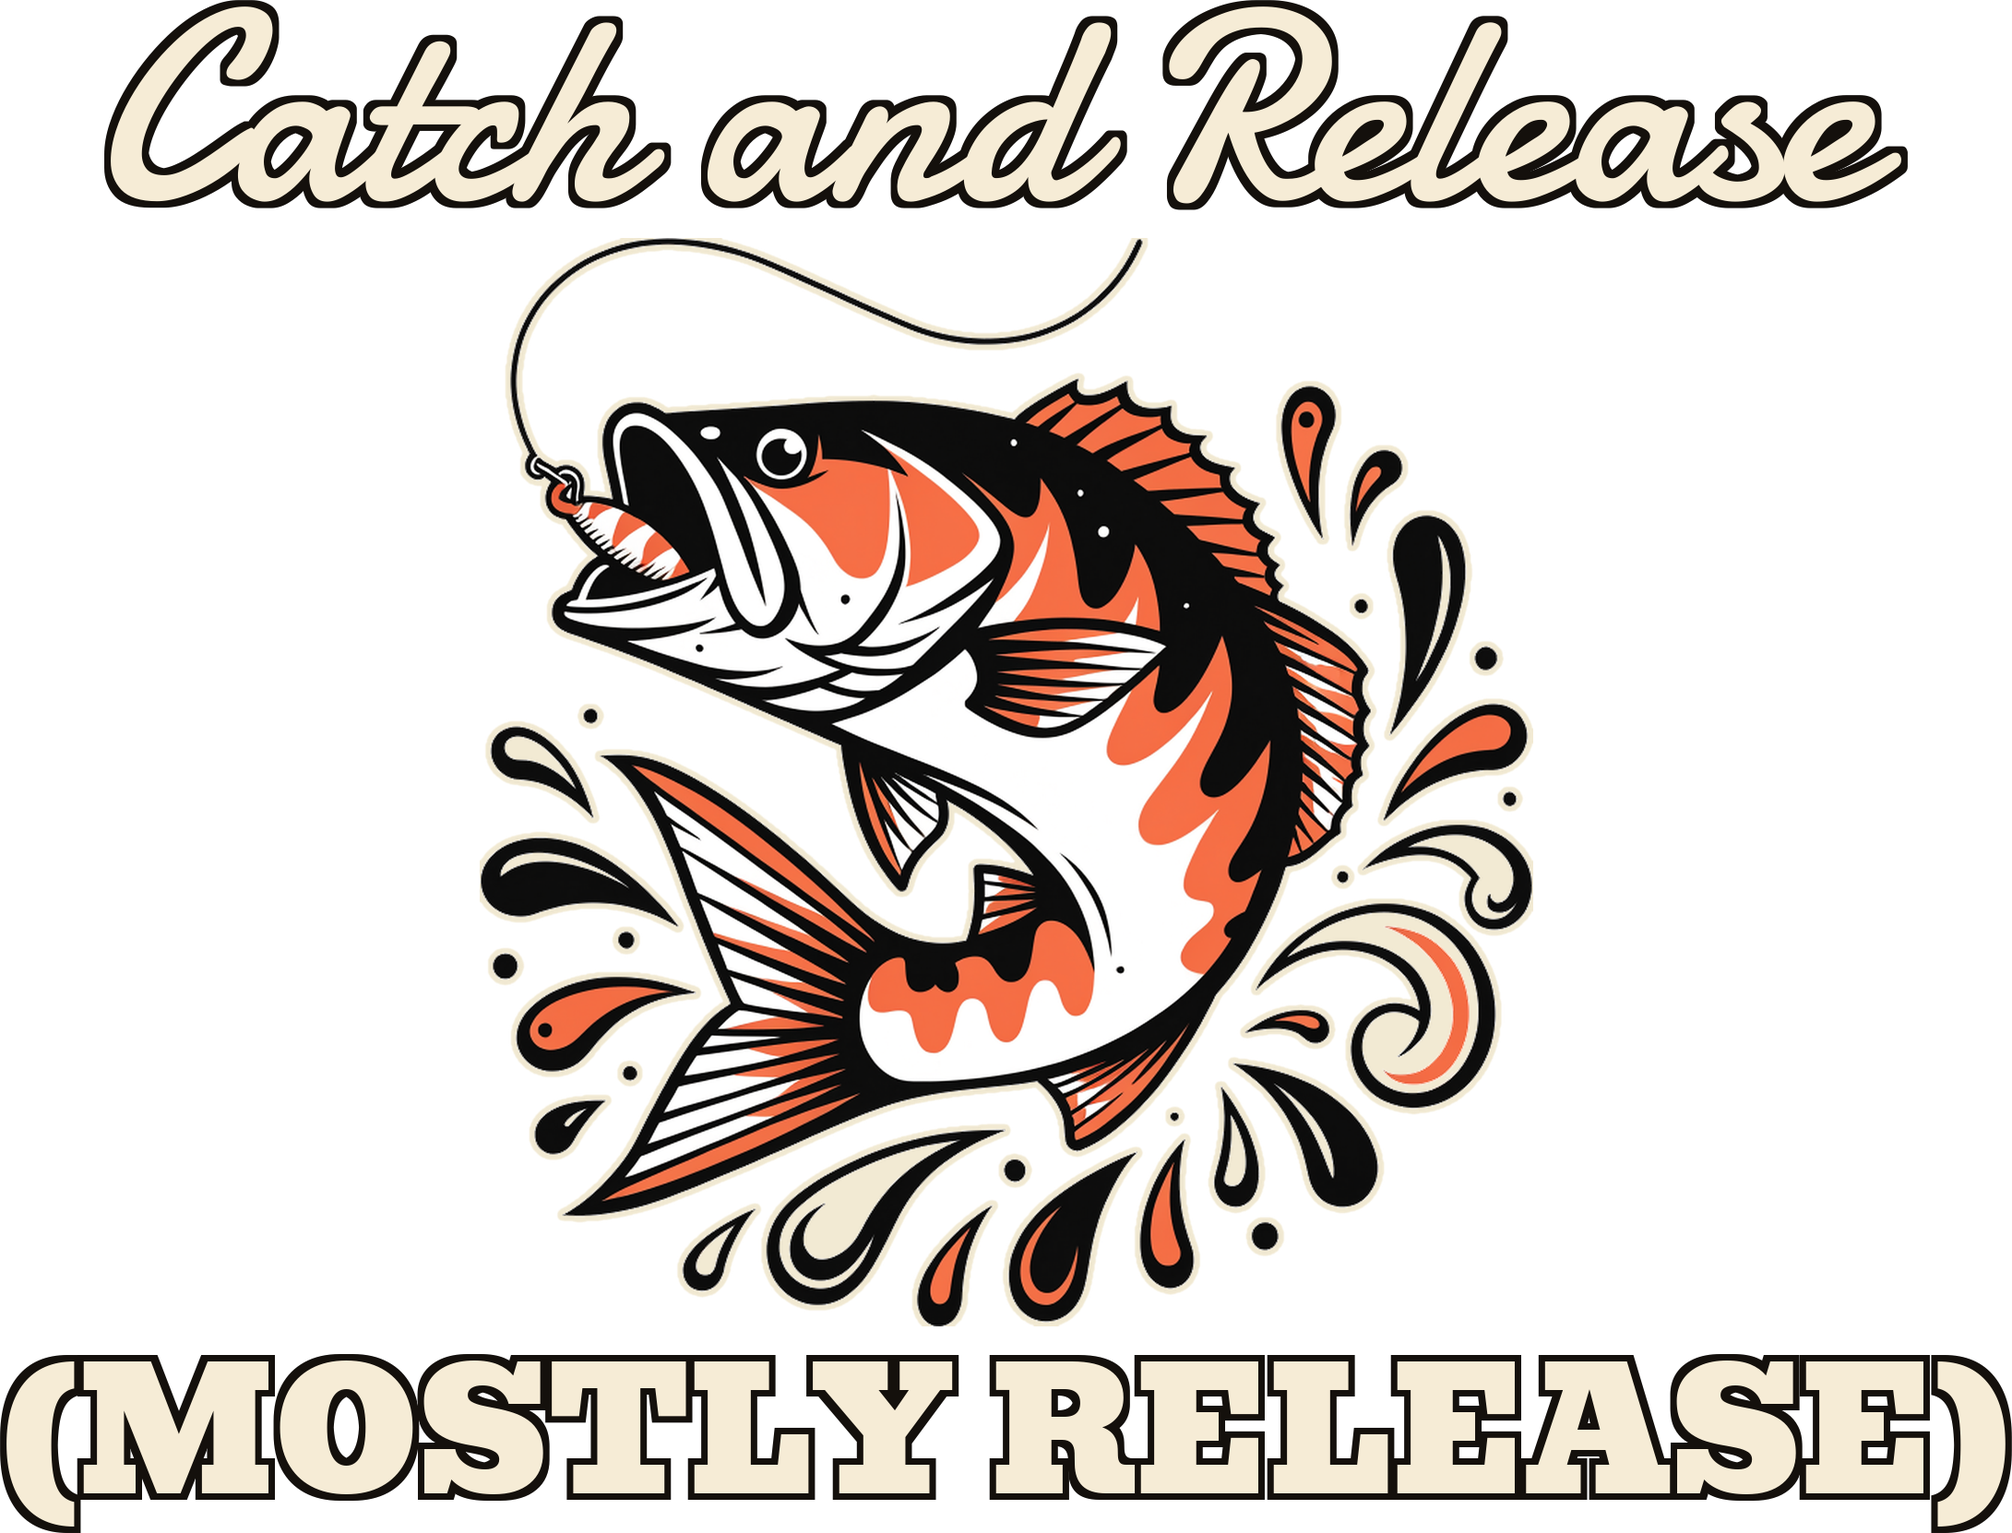
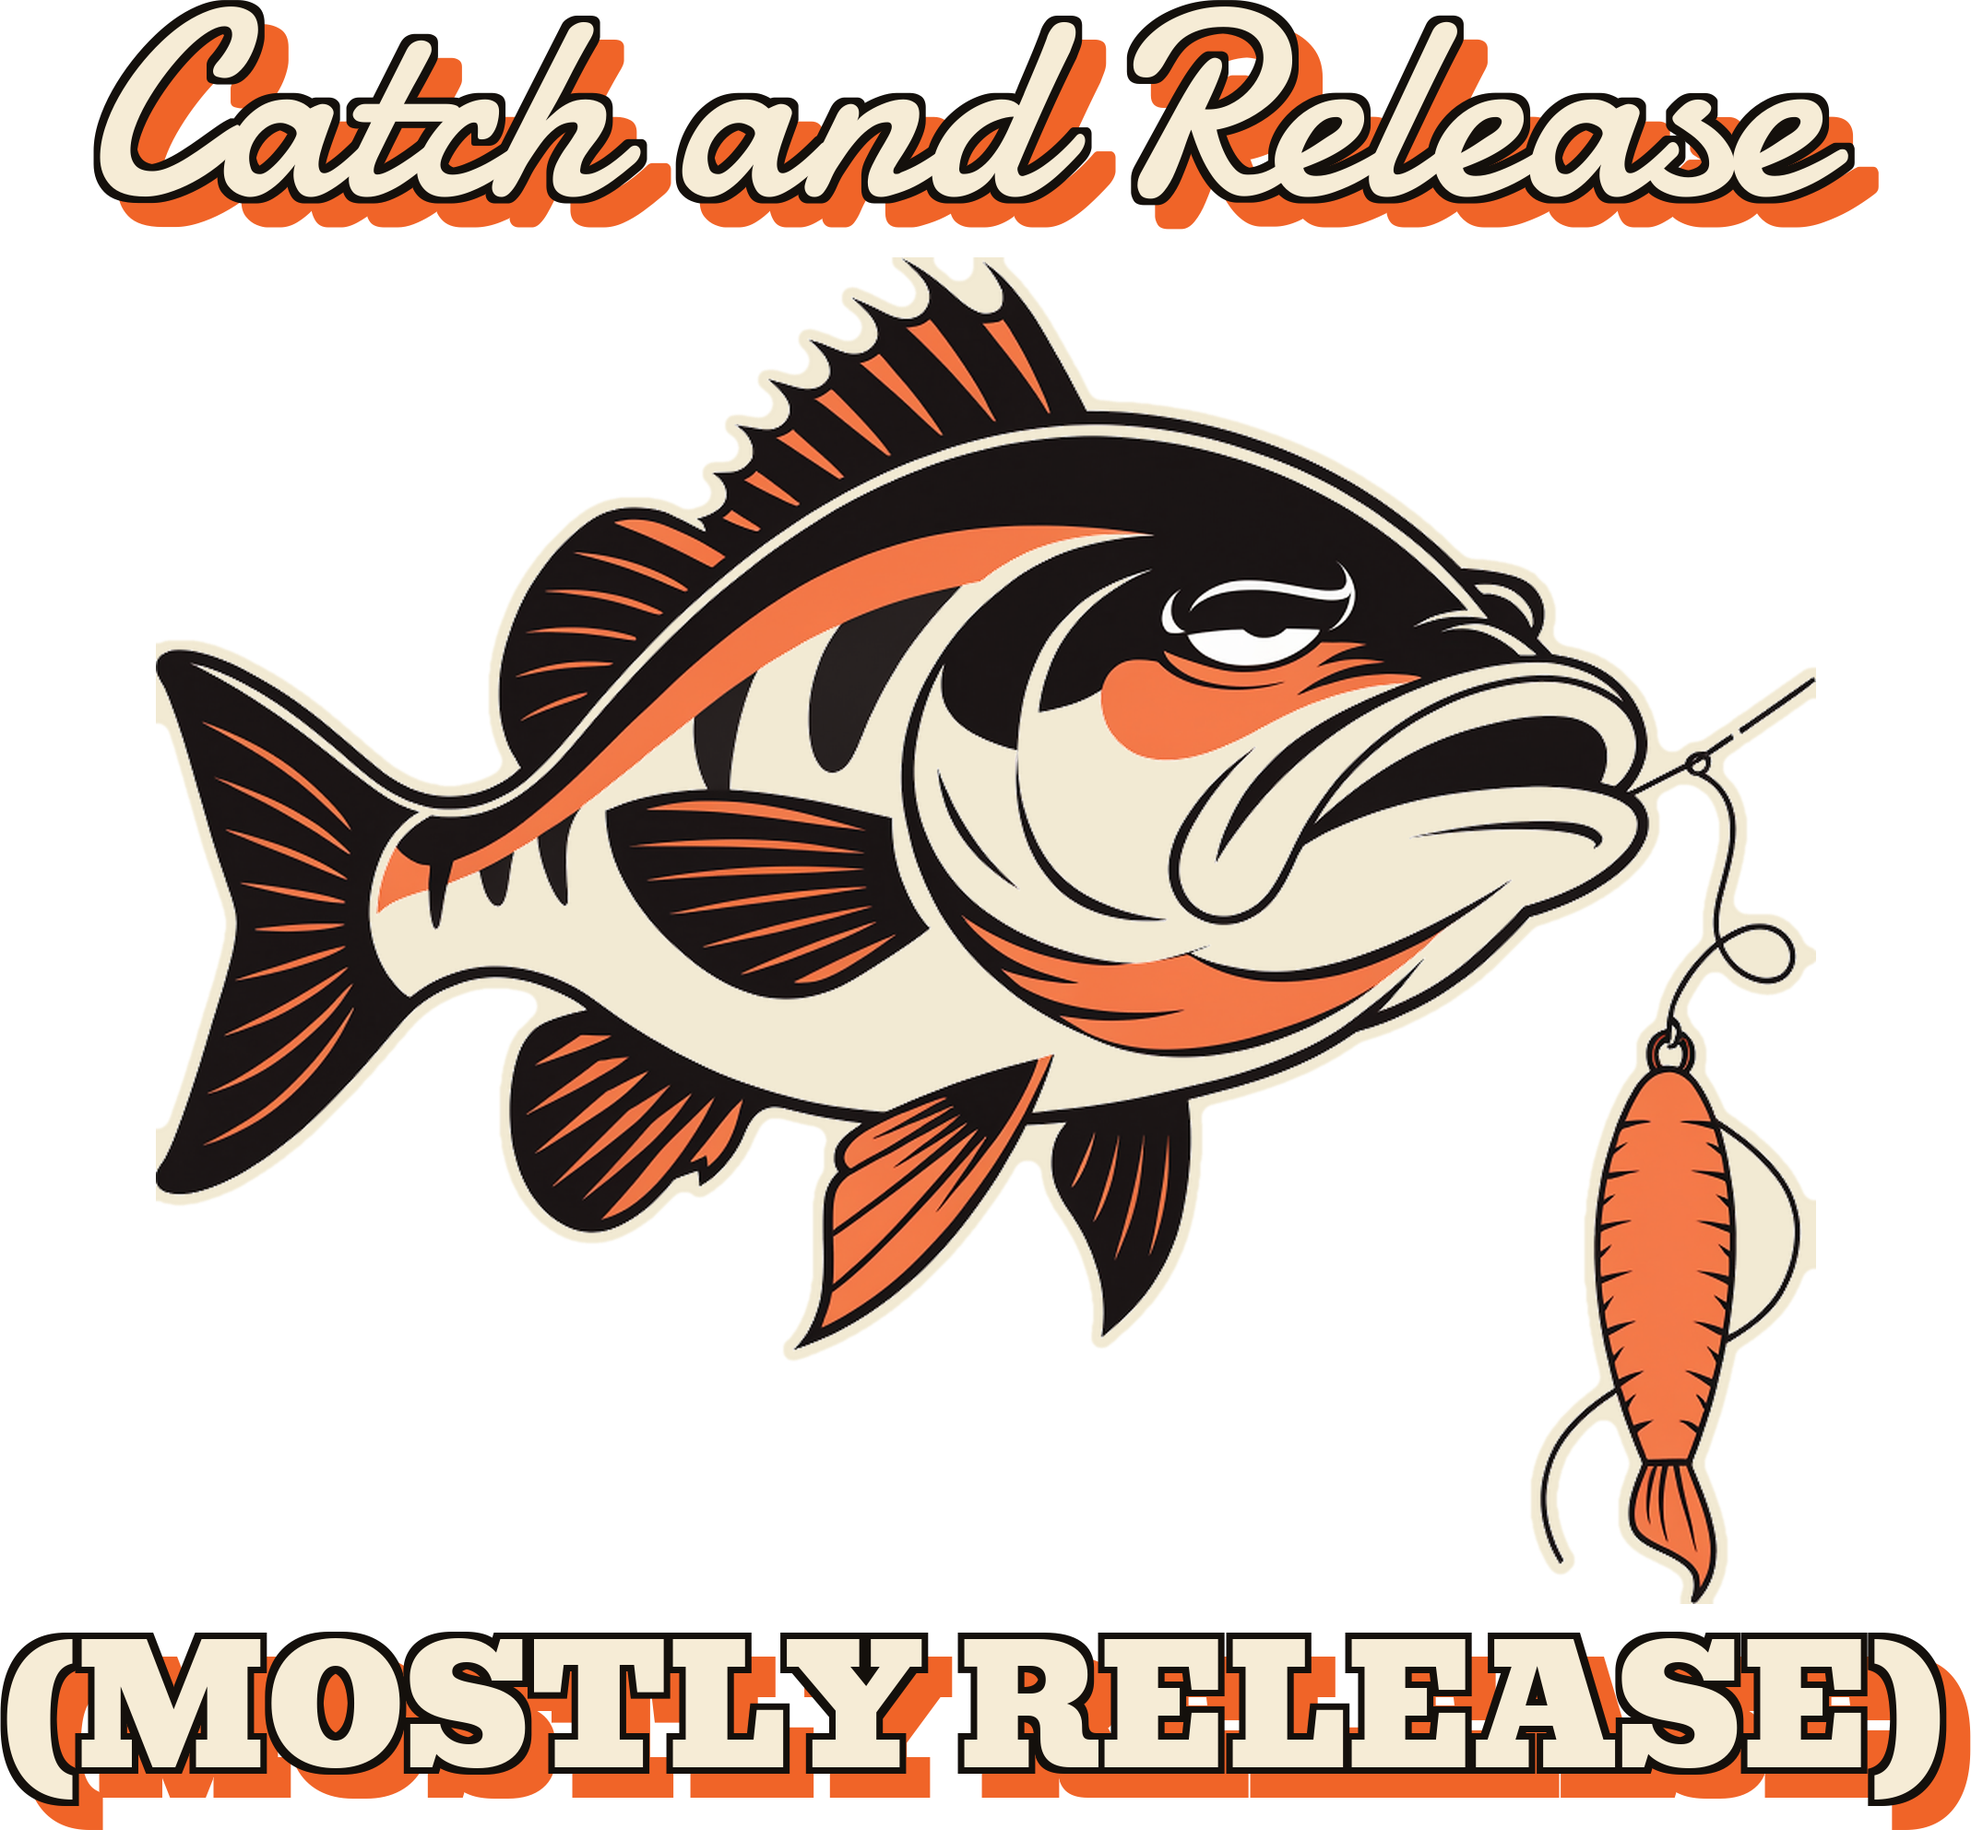
[B] wip 964: new art, relink running

diff --git a/designs/b964/lock2.py b/designs/b964/lock2.py
@@ -1,0 +1,18 @@
+import sys, subprocess, os; sys.path.insert(0, '.')
+from designs.lib import *
+from PIL import Image
+S = os.environ['S']; W = 2200; DARK = (20, 16, 12, 255); ORANGE = (240, 100, 40, 255)
+def shadow(im, d=26, col=ORANGE):
+    a = im.split()[3]; sh = Image.new('RGBA', im.size, col); sh.putalpha(a)
+    out = Image.new('RGBA', (im.width + d, im.height + d), (0, 0, 0, 0)); out.alpha_composite(sh, (d, d)); out.alpha_composite(im, (0, 0)); return out
+ah = Image.open(S + '/k964.png').convert('RGBA'); ah = ah.crop(ah.getbbox())
+AW = 1800; ah = ah.resize((AW, int(ah.height * AW / ah.width)), Image.LANCZOS)
+t1 = shadow(line('Catch and Release', 'damion', 0.86, W, CREAM, DARK, kw=15))
+t2 = shadow(line('(MOSTLY RELEASE)', 'bevan', 0.97, W, CREAM, DARK, kw=15))
+gap = 30; H = t1.height + gap + ah.height + gap + t2.height; out = Image.new('RGBA', (W + 40, H), (0, 0, 0, 0)); y = 0
+for im in (t1, ah, t2):
+    out.alpha_composite(im, ((out.width - im.width) // 2, y)); y += im.height + gap
+out = out.crop(out.getbbox()); out.save('docs/print-files/964-catch-release.png', dpi=(300, 300))
+print(out.size, 'headline', t1.width, 'punch', t2.width, round(100*t2.width/t1.width), '% subject', ah.width, round(100*ah.width/max(t1.width,t2.width)), '% of print w', round(100*ah.width/out.width), 'type px', t1.height+t2.height, 'of', out.height, 'FW1500 height', round(out.height*1500/out.width))
+for n, c in (('black', (34, 30, 28, 255)), ('forest', (52, 62, 44, 255))):
+    b = Image.new('RGBA', out.size, c); b.alpha_composite(out); b.convert('RGB').resize((600, int(600 * out.height / out.width))).save(f'{S}/prev_{n}.png')
